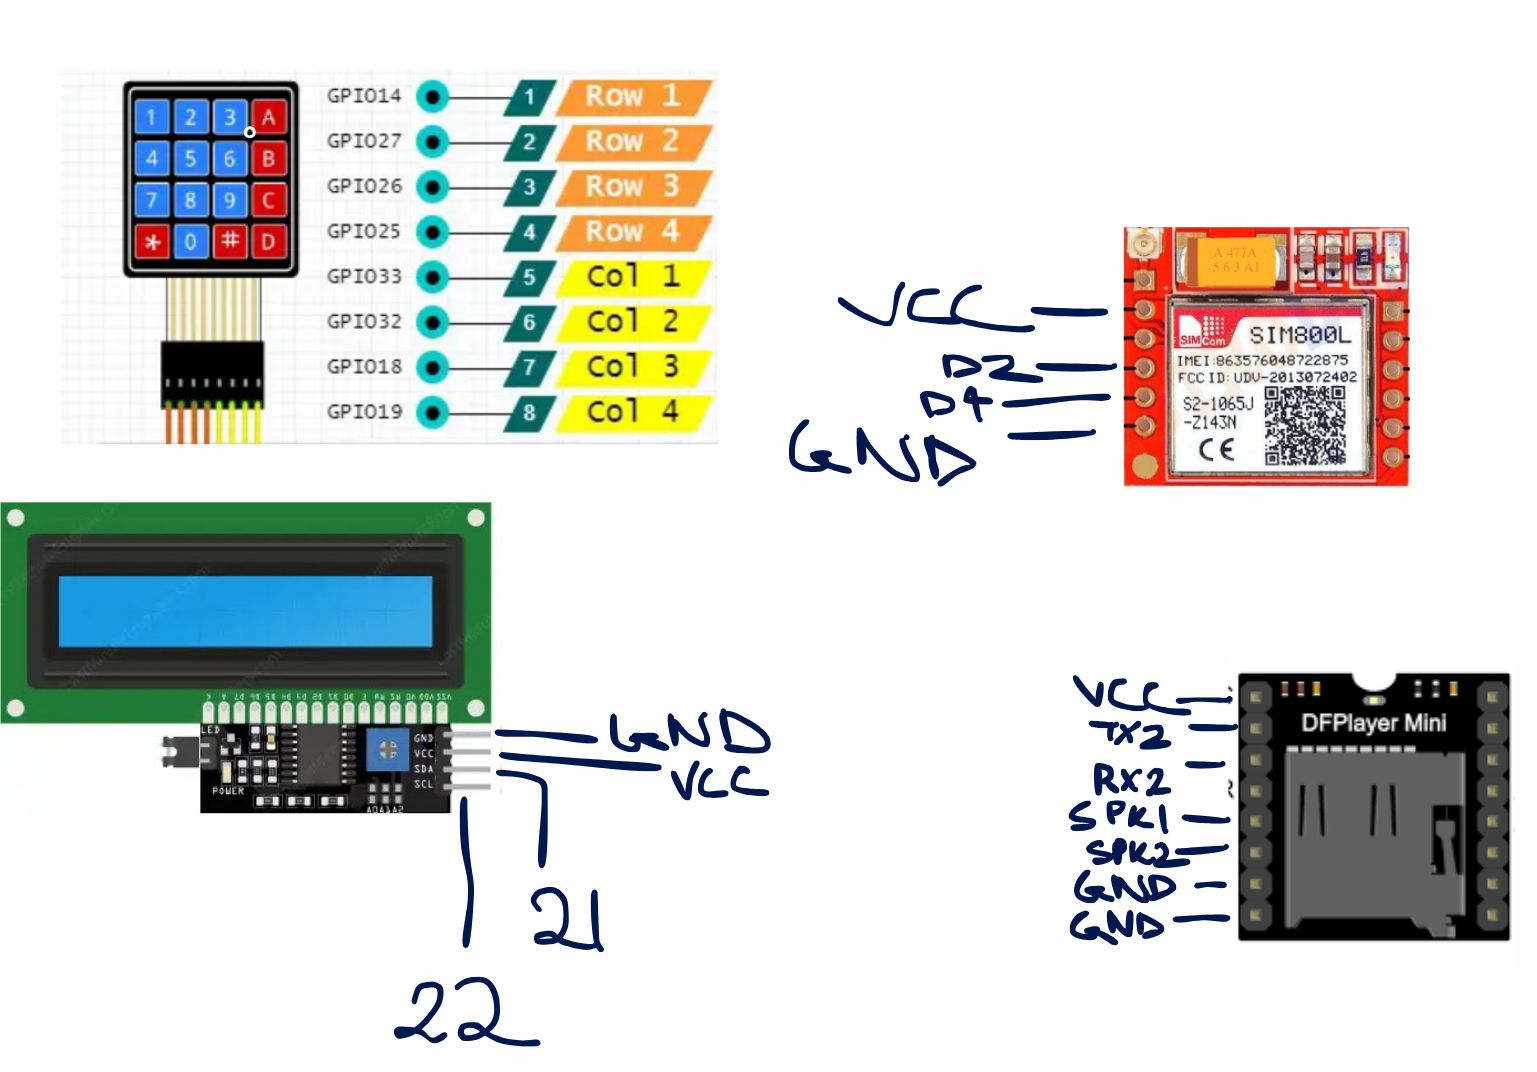
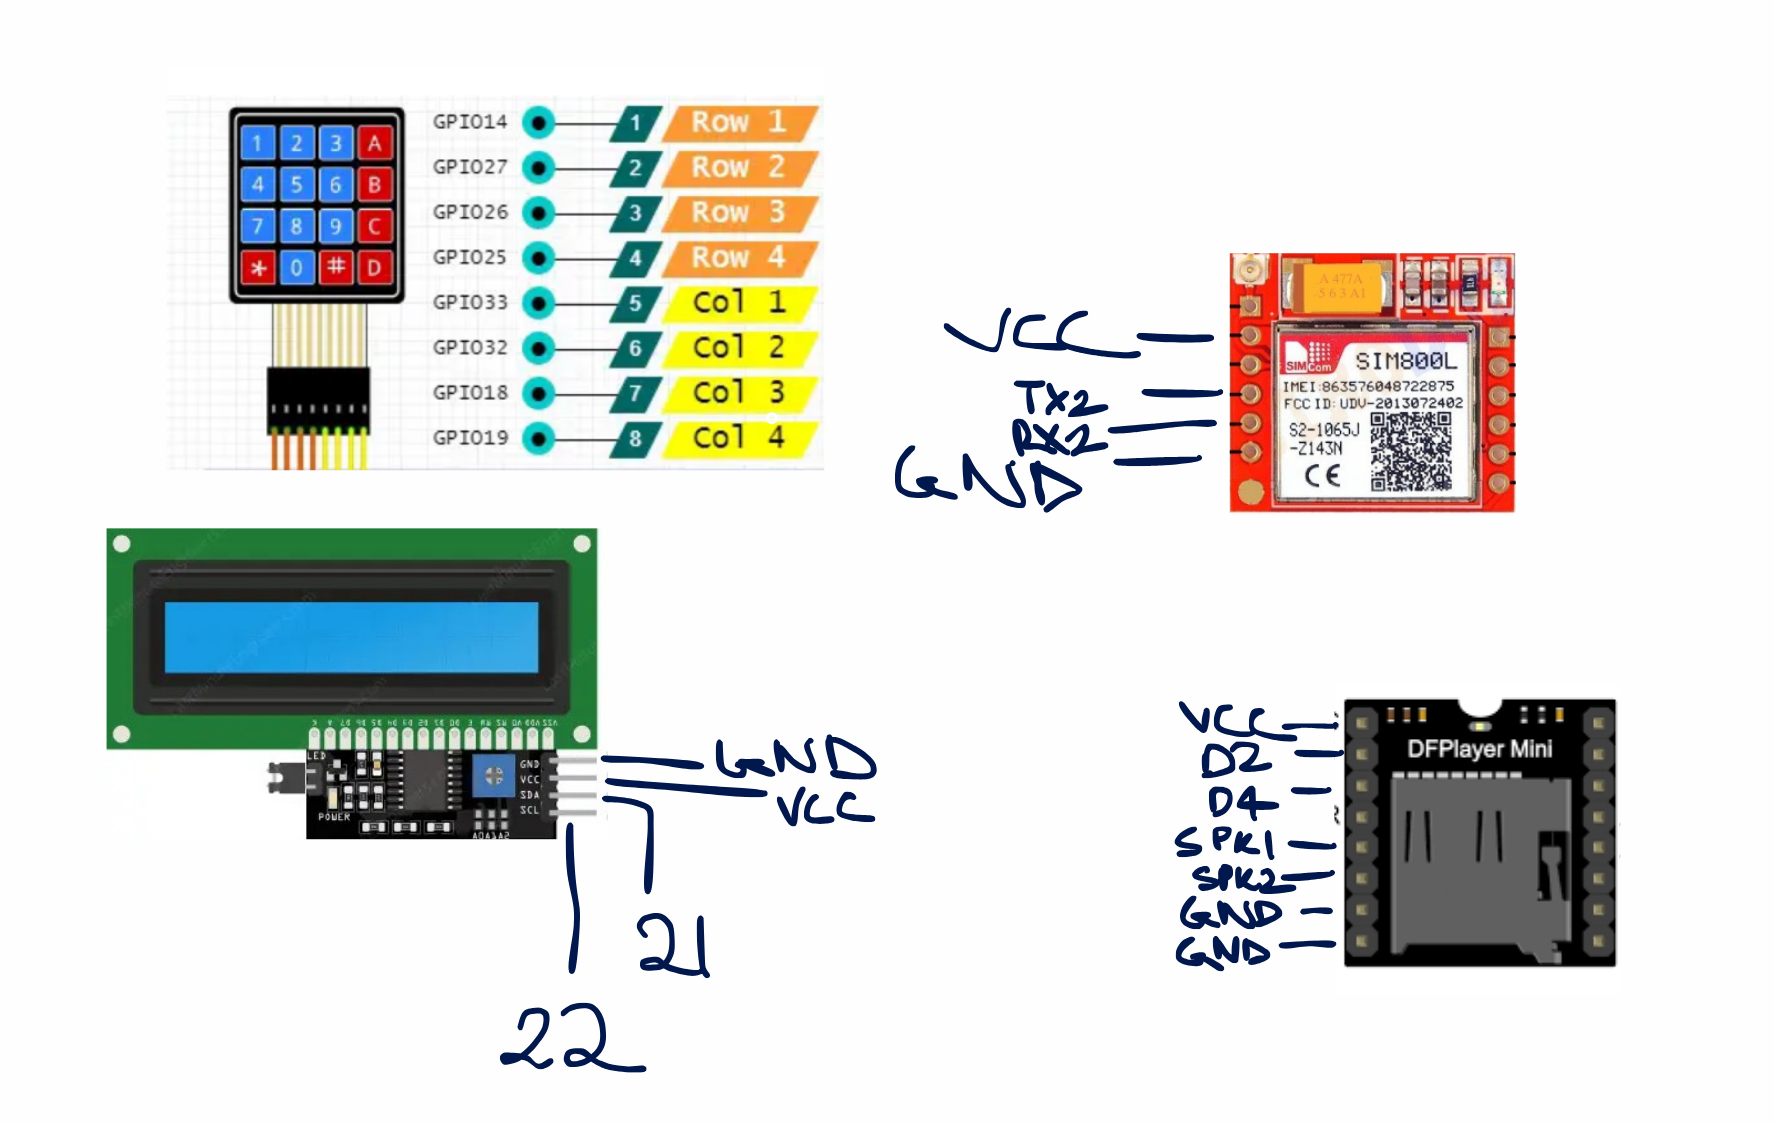
connection diagram updated, added readme changes

diff --git a/README.md b/README.md
@@ -29,3 +29,15 @@ The wiring may vary based on the specific model of the DF Player Mini / MP3-TF-1
 
 
 ![Connection Diagarm](connection_diagram.png)
+
+
+
+## S3 Bucket Invoice:
+![S3 Bucket](aws_s3.png)
+
+## Database Entry
+![Data Entry](mongodb_sample.png)
+
+
+## Sample Invoice
+![Sample Invoice](sample_invoice.png)
